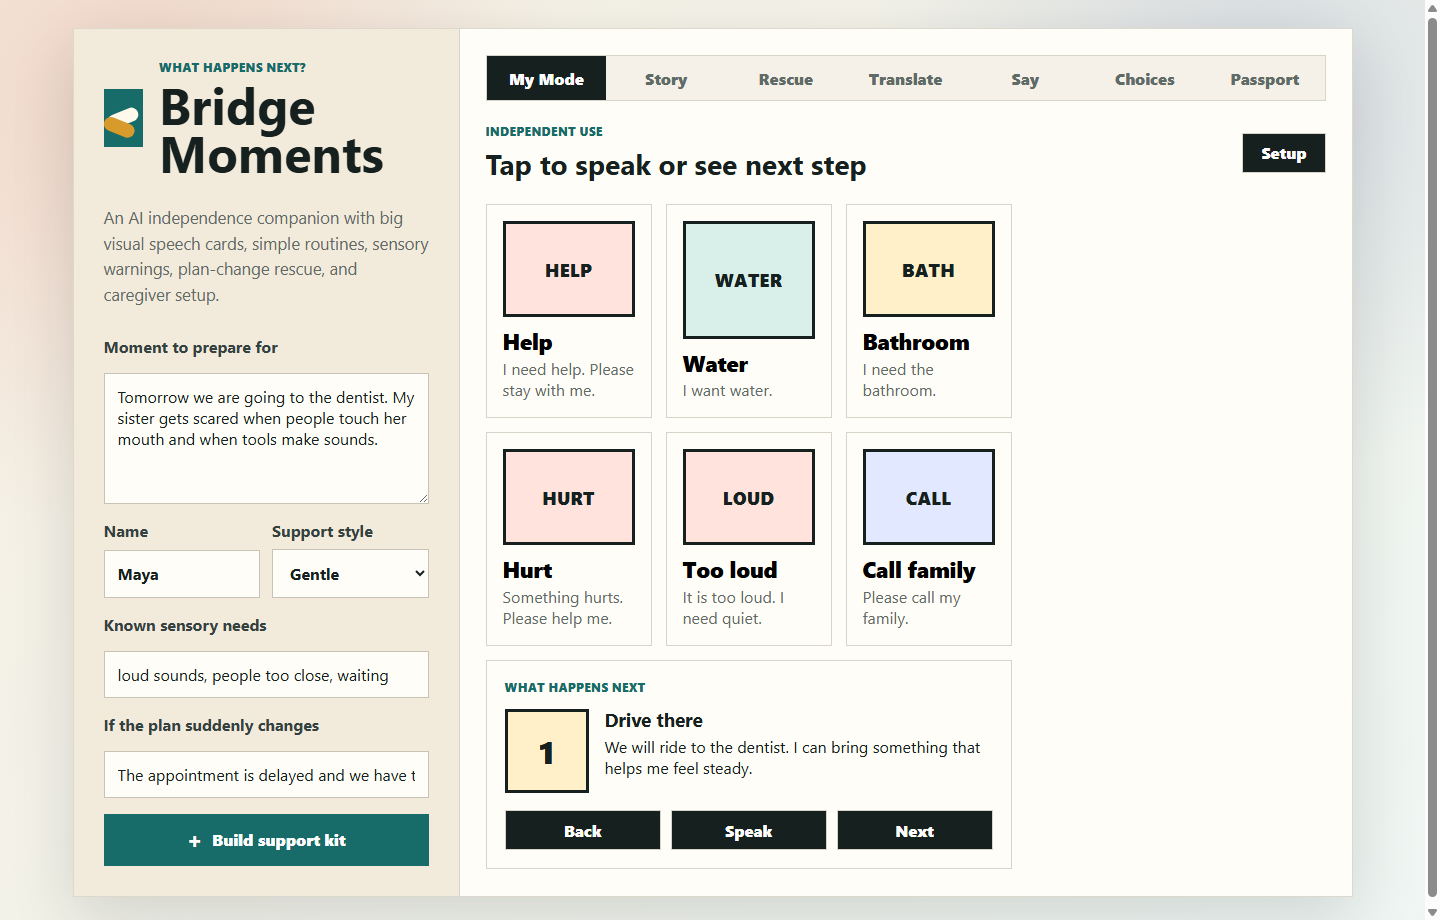
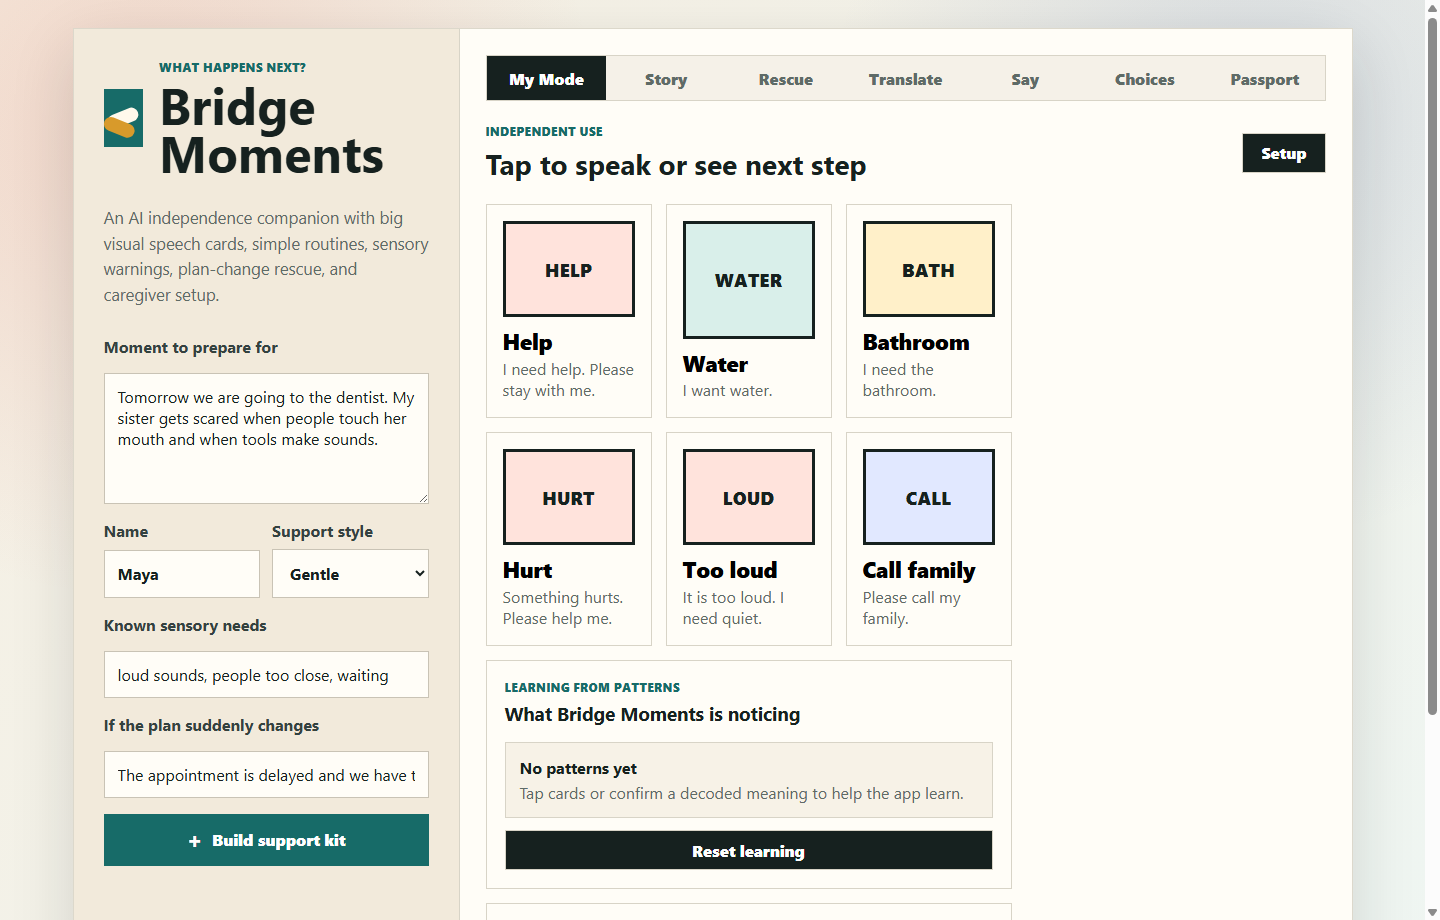
Add adaptive pattern learning

Changed region(s): [[0.3125, 0.7304, 0.9375, 1.0], [0.9688, 0.7609, 1.0, 0.9739]]

diff --git a/app.js b/app.js
@@ -145,6 +145,7 @@ const objectInput = document.querySelector("#objectInput");
 const gestureInput = document.querySelector("#gestureInput");
 const decodeButton = document.querySelector("#decodeButton");
 const decodeOutput = document.querySelector("#decodeOutput");
+const confirmRow = document.querySelector("#confirmRow");
 const assistCards = document.querySelector("#assistCards");
 const caregiverToggle = document.querySelector("#caregiverToggle");
 const caregiverSetup = document.querySelector("#caregiverSetup");
@@ -159,6 +160,8 @@ const currentStepText = document.querySelector("#currentStepText");
 const prevStep = document.querySelector("#prevStep");
 const nextStep = document.querySelector("#nextStep");
 const speakStep = document.querySelector("#speakStep");
+const patternList = document.querySelector("#patternList");
+const resetLearning = document.querySelector("#resetLearning");
 
 let currentPassportText = "";
 let selectedStarter = "I want";
@@ -167,6 +170,8 @@ let selectedClues = new Set();
 let assistCardData = loadAssistCards();
 let activeTemplate = templates.dentist;
 let currentStepIndex = 0;
+let learningData = loadLearningData();
+let lastDecodeContext = null;
 
 function loadAssistCards() {
   try {
@@ -180,6 +185,119 @@ function loadAssistCards() {
 function saveCustomCards() {
   const custom = assistCardData.slice(defaultAssistCards.length);
   localStorage.setItem("bridgeMomentsCards", JSON.stringify(custom));
+}
+
+function loadLearningData() {
+  try {
+    return JSON.parse(localStorage.getItem("bridgeMomentsLearning") || '{"events":[],"patterns":{}}');
+  } catch {
+    return { events: [], patterns: {} };
+  }
+}
+
+function saveLearningData() {
+  learningData.events = learningData.events.slice(-80);
+  localStorage.setItem("bridgeMomentsLearning", JSON.stringify(learningData));
+}
+
+function getContextLabel() {
+  return activeTemplate.title || "current moment";
+}
+
+function recordEvent(type, value) {
+  learningData.events.push({
+    type,
+    value,
+    context: getContextLabel(),
+    hour: new Date().getHours(),
+    timestamp: Date.now()
+  });
+  saveLearningData();
+  renderPatterns();
+}
+
+function patternKey(parts) {
+  return parts.filter(Boolean).join(" | ").toLowerCase();
+}
+
+function confirmPattern(meaning) {
+  if (!lastDecodeContext) return;
+  const key = patternKey([
+    lastDecodeContext.sound,
+    lastDecodeContext.object,
+    lastDecodeContext.gesture,
+    getContextLabel()
+  ]);
+
+  if (!learningData.patterns[key]) {
+    learningData.patterns[key] = {
+      sound: lastDecodeContext.sound,
+      object: lastDecodeContext.object,
+      gesture: lastDecodeContext.gesture,
+      context: getContextLabel(),
+      meanings: {}
+    };
+  }
+
+  learningData.patterns[key].meanings[meaning] = (learningData.patterns[key].meanings[meaning] || 0) + 1;
+  recordEvent("confirmed", meaning);
+  saveLearningData();
+  renderPatterns();
+  renderPassport(activeTemplate, document.querySelector("#personName").value || "Maya", document.querySelector("#sensory").value || "clear space");
+}
+
+function getTopPatterns() {
+  return Object.values(learningData.patterns)
+    .map((pattern) => {
+      const [meaning, count] = Object.entries(pattern.meanings).sort((a, b) => b[1] - a[1])[0] || ["unknown", 0];
+      return { ...pattern, meaning, count };
+    })
+    .filter((pattern) => pattern.count > 0)
+    .sort((a, b) => b.count - a.count)
+    .slice(0, 4);
+}
+
+function getFrequentCardUses() {
+  const counts = {};
+  learningData.events
+    .filter((event) => event.type === "card")
+    .forEach((event) => {
+      const key = `${event.value} in ${event.context}`;
+      counts[key] = (counts[key] || 0) + 1;
+    });
+
+  return Object.entries(counts)
+    .sort((a, b) => b[1] - a[1])
+    .slice(0, 3)
+    .map(([label, count]) => ({ label, count }));
+}
+
+function renderPatterns() {
+  const patterns = getTopPatterns();
+  const cardUses = getFrequentCardUses();
+  const cards = [];
+
+  patterns.forEach((pattern) => {
+    cards.push(`
+      <div class="pattern-card">
+        <strong>${escapeHtml(pattern.meaning)} (${pattern.count} confirmations)</strong>
+        <span>${escapeHtml([pattern.sound && `"${pattern.sound}"`, pattern.object, pattern.gesture, pattern.context].filter(Boolean).join(" + "))}</span>
+      </div>
+    `);
+  });
+
+  cardUses.forEach((use) => {
+    cards.push(`
+      <div class="pattern-card">
+        <strong>${escapeHtml(use.label)}</strong>
+        <span>Used ${use.count} time${use.count === 1 ? "" : "s"}. Keep this card easy to reach.</span>
+      </div>
+    `);
+  });
+
+  patternList.innerHTML = cards.length
+    ? cards.join("")
+    : `<div class="pattern-card"><strong>No patterns yet</strong><span>Tap cards or confirm a decoded meaning to help the app learn.</span></div>`;
 }
 
 function escapeHtml(value) {
@@ -367,6 +485,7 @@ function decodeIntent() {
   const object = objectInput.value.trim().toLowerCase();
   const gesture = gestureInput.value;
   const guesses = [];
+  lastDecodeContext = { sound, object, gesture };
 
   if (object.includes("cup") || object.includes("bottle") || sound.includes("wa") || sound.includes("oo")) {
     guesses.push("Maybe: water, thirsty, or help opening a drink.");
@@ -398,6 +517,11 @@ function decodeIntent() {
     <span>Repeat the attempt: "${sound || "sound"}". Name the clue: "${object || gesture}". Then ask one simple choice: "Do you want it, or need help?"</span>
     <div class="decode-list">${guesses.map((item) => `<p>${item}</p>`).join("")}</div>
   `;
+
+  const confirmOptions = ["water", "help", "break", "bathroom", "go outside", "all done"];
+  confirmRow.innerHTML = confirmOptions
+    .map((meaning) => `<button class="clue-chip" type="button" data-meaning="${meaning}">${meaning}</button>`)
+    .join("");
 }
 
 function renderRescue(name, change) {
@@ -450,8 +574,16 @@ function renderTranslation() {
 function renderPassport(template, name, sensory) {
   passportName.textContent = name;
   document.querySelector(".avatar").textContent = name.trim().charAt(0).toUpperCase() || "M";
+  const learnedPatterns = getTopPatterns();
+  const learnedText = learnedPatterns.length
+    ? learnedPatterns
+        .map((pattern) => `${pattern.sound || pattern.object || pattern.gesture} in ${pattern.context} often means ${pattern.meaning}`)
+        .join("; ")
+    : "No learned patterns yet. Confirm meanings in the Say tab as they happen.";
+
   const items = [
     ["How I communicate", "I may use sounds, word approximations, pointing, objects, gestures, or your hand to show what I mean."],
+    ["Learned patterns", learnedText],
     ["How to understand me", "Treat every sound or gesture as communication. Look at the object, place, routine, and my body clues."],
     ["What may be hard", template.forecast.map((item) => item[1]).join("; ")],
     ["Signs I am overwhelmed", template.feelings],
@@ -521,7 +653,10 @@ assistCards.addEventListener("click", (event) => {
   const button = event.target.closest("[data-card-index]");
   if (!button) return;
   const card = assistCardData[Number(button.dataset.cardIndex)];
-  if (card) speak(card.phrase);
+  if (card) {
+    recordEvent("card", card.label);
+    speak(card.phrase);
+  }
 });
 
 caregiverToggle.addEventListener("click", () => {
@@ -570,6 +705,20 @@ translateButton.addEventListener("click", renderTranslation);
 
 decodeButton.addEventListener("click", decodeIntent);
 
+confirmRow.addEventListener("click", (event) => {
+  const button = event.target.closest("[data-meaning]");
+  if (!button) return;
+  confirmPattern(button.dataset.meaning);
+  button.textContent = "saved";
+});
+
+resetLearning.addEventListener("click", () => {
+  learningData = { events: [], patterns: {} };
+  saveLearningData();
+  renderPatterns();
+  renderPassport(activeTemplate, document.querySelector("#personName").value || "Maya", document.querySelector("#sensory").value || "clear space");
+});
+
 phraseColumns.addEventListener("click", (event) => {
   const button = event.target.closest("[data-starter]");
   if (!button) return;
@@ -612,3 +761,4 @@ renderPhraseBuilder();
 renderClues();
 decodeIntent();
 updateApp();
+renderPatterns();

diff --git a/index.html b/index.html
@@ -78,6 +78,14 @@
             <div class="assist-layout">
               <section class="person-mode" aria-label="Personal communication cards">
                 <div class="assist-card-grid" id="assistCards"></div>
+                <article class="learning-panel">
+                  <div>
+                    <p class="eyebrow">Learning from patterns</p>
+                    <h3>What Bridge Moments is noticing</h3>
+                  </div>
+                  <div class="pattern-list" id="patternList"></div>
+                  <button class="small-action" id="resetLearning" type="button">Reset learning</button>
+                </article>
                 <article class="now-step">
                   <p class="eyebrow">What happens next</p>
                   <div class="now-step-body">
@@ -228,6 +236,7 @@
                   <button class="small-action" id="decodeButton" type="button">Decode</button>
                 </div>
                 <div class="decode-output" id="decodeOutput"></div>
+                <div class="confirm-row" id="confirmRow"></div>
                 <div class="clue-grid" id="clueGrid"></div>
                 <div class="guess-output" id="guessOutput"></div>
               </article>

diff --git a/styles.css b/styles.css
@@ -272,7 +272,9 @@ select:focus {
 .decode-output,
 .assist-card,
 .now-step,
-.caregiver-setup {
+.caregiver-setup,
+.learning-panel,
+.pattern-card {
   border: 1px solid var(--line);
   background: #fffdf7;
 }
@@ -352,8 +354,33 @@ select:focus {
 }
 
 .now-step,
-.caregiver-setup {
+.caregiver-setup,
+.learning-panel {
   padding: 18px;
+}
+
+.learning-panel {
+  display: grid;
+  gap: 12px;
+}
+
+.pattern-list {
+  display: grid;
+  gap: 10px;
+}
+
+.pattern-card {
+  padding: 14px;
+  background: #f7f2e7;
+}
+
+.pattern-card strong {
+  display: block;
+  margin-bottom: 4px;
+}
+
+.pattern-card span {
+  color: var(--muted);
 }
 
 .now-step-body {
@@ -698,6 +725,13 @@ select:focus {
 .guess-output strong {
   display: block;
   margin-bottom: 8px;
+}
+
+.confirm-row {
+  display: grid;
+  grid-template-columns: repeat(3, minmax(0, 1fr));
+  gap: 8px;
+  margin-top: 10px;
 }
 
 .rescue-card {

diff --git a/README.md b/README.md
@@ -1,9 +1,9 @@
 # Bridge Moments
 
-Bridge Moments is a static web prototype for an AI-assisted independence, transition, and speech/AAC support tool. It helps people use big text-and-visual cards to speak needs out loud, while caregivers can set up custom cards with photos, simple routines, sensory forecasts, plan-change rescue scripts, intent decoding for sounds/gestures/objects, easy-language translations, and a shareable support card.
+Bridge Moments is a static web prototype for an AI-assisted independence, transition, and speech/AAC support tool. It helps people use big text-and-visual cards to speak needs out loud, while caregivers can set up custom cards with photos, simple routines, sensory forecasts, plan-change rescue scripts, intent decoding for sounds/gestures/objects, adaptive pattern learning, easy-language translations, and a shareable support card.
 
 Open `index.html` in a browser to run the project.
 
 ## Showcase description
 
-Bridge Moments turns real-life stressful situations into simple, personalized support kits. It now includes My Mode, an independence-first screen with large visual cards, readable text, optional real photos, and one-tap speech for needs like help, water, bathroom, pain, quiet, or calling family. Caregivers can add custom cards that save in the browser. The app also creates visual stories, sensory forecasts, first-then plans, plan-change rescue scripts, speech/AAC phrase support, an intent decoder for unclear sounds, pointing, hand-leading, and objects, an EasyWorld text translator, and a "My Voice Passport" support card. The goal is to help people communicate and understand more on their own, while still giving caregivers practical support.
+Bridge Moments turns real-life stressful situations into simple, personalized support kits. It now includes My Mode, an independence-first screen with large visual cards, readable text, optional real photos, and one-tap speech for needs like help, water, bathroom, pain, quiet, or calling family. Caregivers can add custom cards that save in the browser. The app also learns locally from repeated taps and caregiver confirmations, such as when a sound plus an object often means water or when a certain card is used often in a specific context. These learned patterns update the My Voice Passport. The goal is to help people communicate and understand more on their own, while helping caregivers notice patterns they might otherwise miss.

diff --git a/LAUNCH_COPY.md b/LAUNCH_COPY.md
@@ -6,7 +6,7 @@ An AI independence, transition, and speech/AAC bridge for people with Down syndr
 
 ## GitHub Repository Description
 
-Bridge Moments helps people communicate with big visual speech cards while caregivers create visual stories, sensory forecasts, plan-change scripts, speech/AAC support, and a shareable support passport.
+Bridge Moments helps people communicate with big visual speech cards while caregivers create visual stories, sensory forecasts, plan-change scripts, speech/AAC support, adaptive learned patterns, and a shareable support passport.
 
 ## Devpost / Product Hunt Description
 
@@ -14,7 +14,7 @@ Bridge Moments is an AI-powered independence, transition, and speech/AAC bridge 
 
 The app includes My Mode, a simple text-and-visual screen with large tap targets, optional real photos, and one-tap speech for needs like help, water, bathroom, pain, quiet, or calling family. Caregivers can add custom cards that save in the browser.
 
-A caregiver can also describe an upcoming stressful moment, such as a dentist visit, school change, haircut, loud public place, or sudden routine change. The app turns it into a support kit with a simple visual story, sensory forecast, first-then plan, plan-change rescue script, speech phrase builder, intent decoder for unclear sounds, pointing, objects, and hand-leading, EasyWorld text translator, and shareable My Voice Passport.
+Bridge Moments also learns locally from repeated taps and caregiver confirmations. If a sound, object, gesture, and context often means water, help, bathroom, break, or all done, the app remembers that pattern and updates the My Voice Passport. A caregiver can also describe an upcoming stressful moment, and the app turns it into a support kit with a simple visual story, sensory forecast, first-then plan, plan-change rescue script, speech phrase builder, intent decoder, EasyWorld text translator, and shareable My Voice Passport.
 
 I built it because my younger sister has Down syndrome and is still developing her speech. Sometimes she may say sounds instead of full words, point at something, bring an object, or grab someone's hand to show what she wants. Bridge Moments treats every sound, gesture, and object as communication and helps caregivers respond before frustration builds.
 

diff --git a/SUBMISSION.md b/SUBMISSION.md
@@ -8,9 +8,9 @@ Bridge Moments
 
 Bridge Moments is an AI-powered independence, transition, and speech/AAC bridge for people with Down syndrome, autism, speech delays, or intellectual disabilities. It includes My Mode, a simple screen with large text-and-visual cards, optional real photos, and one-tap speech so someone can communicate needs like help, water, bathroom, pain, quiet, or calling family. Caregivers can add custom cards that save in the browser.
 
-A caregiver can also describe stressful moments like a dentist visit, school change, haircut, loud public place, or sudden routine change. The app turns it into visual stories, sensory forecasts, first-then plans, plan-change rescue scripts, speech/AAC phrase support, an intent decoder for unclear sounds, pointing, objects, and hand-leading, an EasyWorld translator, and a shareable My Voice Passport.
+The app also learns locally from repeated patterns. If a caregiver confirms that a sound, object, gesture, or context usually means water, help, bathroom, break, or all done, Bridge Moments remembers that pattern and uses it to update the My Voice Passport. It also tracks which cards are used most often so caregivers can keep important cards easy to reach.
 
-I built it because my younger sister has Down syndrome and is still developing her speech. I want Bridge Moments to help people communicate and understand more on their own, while still helping caregivers support them respectfully.
+A caregiver can describe stressful moments like a dentist visit, school change, haircut, loud public place, or routine change. The app turns it into visual stories, sensory forecasts, first-then plans, plan-change rescue scripts, speech/AAC phrase support, an intent decoder, an EasyWorld translator, and a learned support profile.
 
 ## Preview image
 
